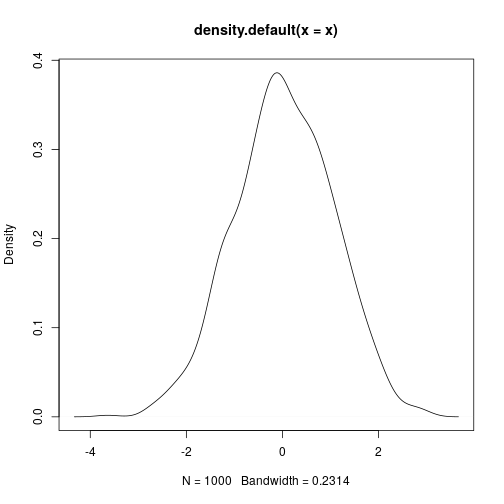
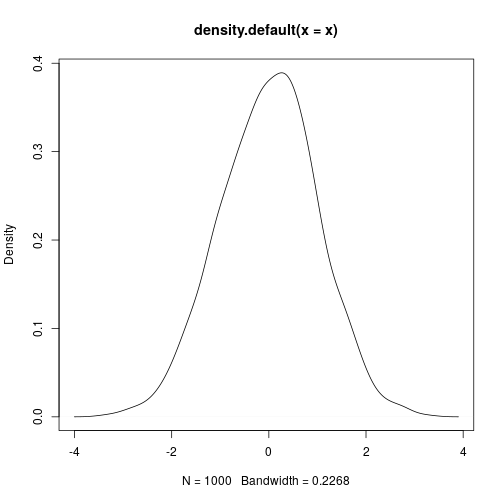
adding challenges

diff --git a/_episodes/02-literate-programming.md b/_episodes/02-literate-programming.md
@@ -245,7 +245,7 @@ plot(density(x))
 head(x)
 </code></pre>
 
-<pre><code>## [1] -1.2685124  1.1099356 -1.0160079 -0.2135524  1.7670491  0.2663367
+<pre><code>## [1] -1.4312432  0.1392884 -0.9480041 -0.2149473 -0.1251113 -1.7540842
 </code></pre>
 
 <p><code>knitr</code> offers a lot of control over representing different
@@ -254,7 +254,7 @@ computed on the fly.</p>
 
 <p>The mean \(\bar{x} = \frac{1}{n} \sum_{i=1}^{n} x_{i}\) of the
 1000 random variates we generated is
-0.073.</p>
+0.001.</p>
 
 <p>This figure is computed on-the-fly as well. No more
 copy-paste, including for figures:</p>
@@ -262,7 +262,7 @@ copy-paste, including for figures:</p>
 <pre><code class="r">plot(density(x))
 </code></pre>
 
[2 lines of base64/hex data omitted]
 
 
 

diff --git a/_episodes/04-bibliographic-citations.md b/_episodes/04-bibliographic-citations.md
@@ -154,15 +154,16 @@ nocite: |
 
 
 >## Challenge 1 - Setting the bibliography
->1. Add the `decoupling-dns.bib` BibText as the bibliography for the `dekker-dennis-sci.md` file that is inside of the `bib-cite` folder in your working directory. Remember we set the bibliography in the YAML header by `bibliography:` key.
->2.Create one citation (@dennis05 or @darwin) somewhere in the text. Use the `[]` syntax. 
->3.Run `Knitr`
+> 1. Add the `decoupling-dns.bib` BibText as the bibliography for the `dekker-dennis-sci.md` file that is inside of the `bib-cite` folder in your working directory. Remember we set the bibliography in the YAML header by `bibliography:` key.
+> 2.Create one citation (@dennis05 or @darwin) somewhere in the text. Use the `[]` syntax. 
+> 3.Run `Knitr`
 {: .challenge}
 
 
 >## Challenge 2 - Multi-citations and page numbers
->1. Open the `decoupling-dns.bib` file and pick 3 citations to reference together in the text. Tip: multiple authors are separated by a `;`.
->2. Add page numbers for the citation and `Knit`. Page numbers follow the citation key with a comma.
+> 1. Open the `decoupling-dns.bib` file and pick 3 citations to reference together in the text. Tip: multiple authors are separated by a `;`.
+> 2. Add page numbers for the citation and `Knit`. Page numbers follow the citation key with a comma.
+{: .challenge}
 
 
 ## Using Zotero 
@@ -183,7 +184,9 @@ Once you have Zotero-Better-BibTex installed in Zotero 4 you can keep it updated
 
 >## Challenge 3 - Export a bib to your working directory
 > If you have Zotero and a bibliography, try exporting a bib text into the project space. 
-> 
+> If you have Zotero and no bibliography, try importing our `decoupling-dns.bib` file into Zotero and exporting it as `decoupling-dns2.bib`.  
+> Change the `bibliography: decoupling-dns.bib` in your header and add references. 
+{: .challenge}
 
 ## Citr - An Easier Way to Add Citations
 
@@ -232,10 +235,13 @@ csl: biomed-central.csl
 >## Challenge 4 - Installing and using Citr
 > Using `Insert citations` from the addins dropdown add a few references.
 > Run knitr 
+{: .challenge}
+
 
 > ## Challenge 5 - Use another citation style
 > In your working folder you should have the csl for MLA and biomed-central. 
-> Change you csl by adding `csl:
-#note that packages that install addins don't need to be referenced by library()
-```
+> Change you csl by adding `csl: <filename>` and run Knitr
+{: .challenge}
+
+
 ## References

diff --git a/_episodes/rmd_example.md b/_episodes/rmd_example.md
@@ -7,7 +7,7 @@ head(x)
 ```
 
 ```
-## [1]  0.2681304  0.1189589 -1.0716066  1.5441846 -0.4347218 -0.6969167
+## [1] -2.8270161 -1.0091592 -0.7799536  0.2725977  0.6892072 -0.1488466
 ```
 
 `knitr` offers a lot of control over representing different
@@ -16,7 +16,7 @@ computed on the fly.
 
 The mean $\bar{x} = \frac{1}{n} \sum_{i=1}^{n} x_{i}$ of the
 1000 random variates we generated is
-0.033.
+0.003.
 
 This figure is computed on-the-fly as well. No more
 copy-paste, including for figures:

diff --git a/_episodes_rmd/rmd_example.md b/_episodes_rmd/rmd_example.md
@@ -7,7 +7,7 @@ head(x)
 ```
 
 ```
-## [1] -1.2685124  1.1099356 -1.0160079 -0.2135524  1.7670491  0.2663367
+## [1] -1.4312432  0.1392884 -0.9480041 -0.2149473 -0.1251113 -1.7540842
 ```
 
 `knitr` offers a lot of control over representing different
@@ -16,7 +16,7 @@ computed on the fly.
 
 The mean $\bar{x} = \frac{1}{n} \sum_{i=1}^{n} x_{i}$ of the
 1000 random variates we generated is
-0.073.
+0.001.
 
 This figure is computed on-the-fly as well. No more
 copy-paste, including for figures:
